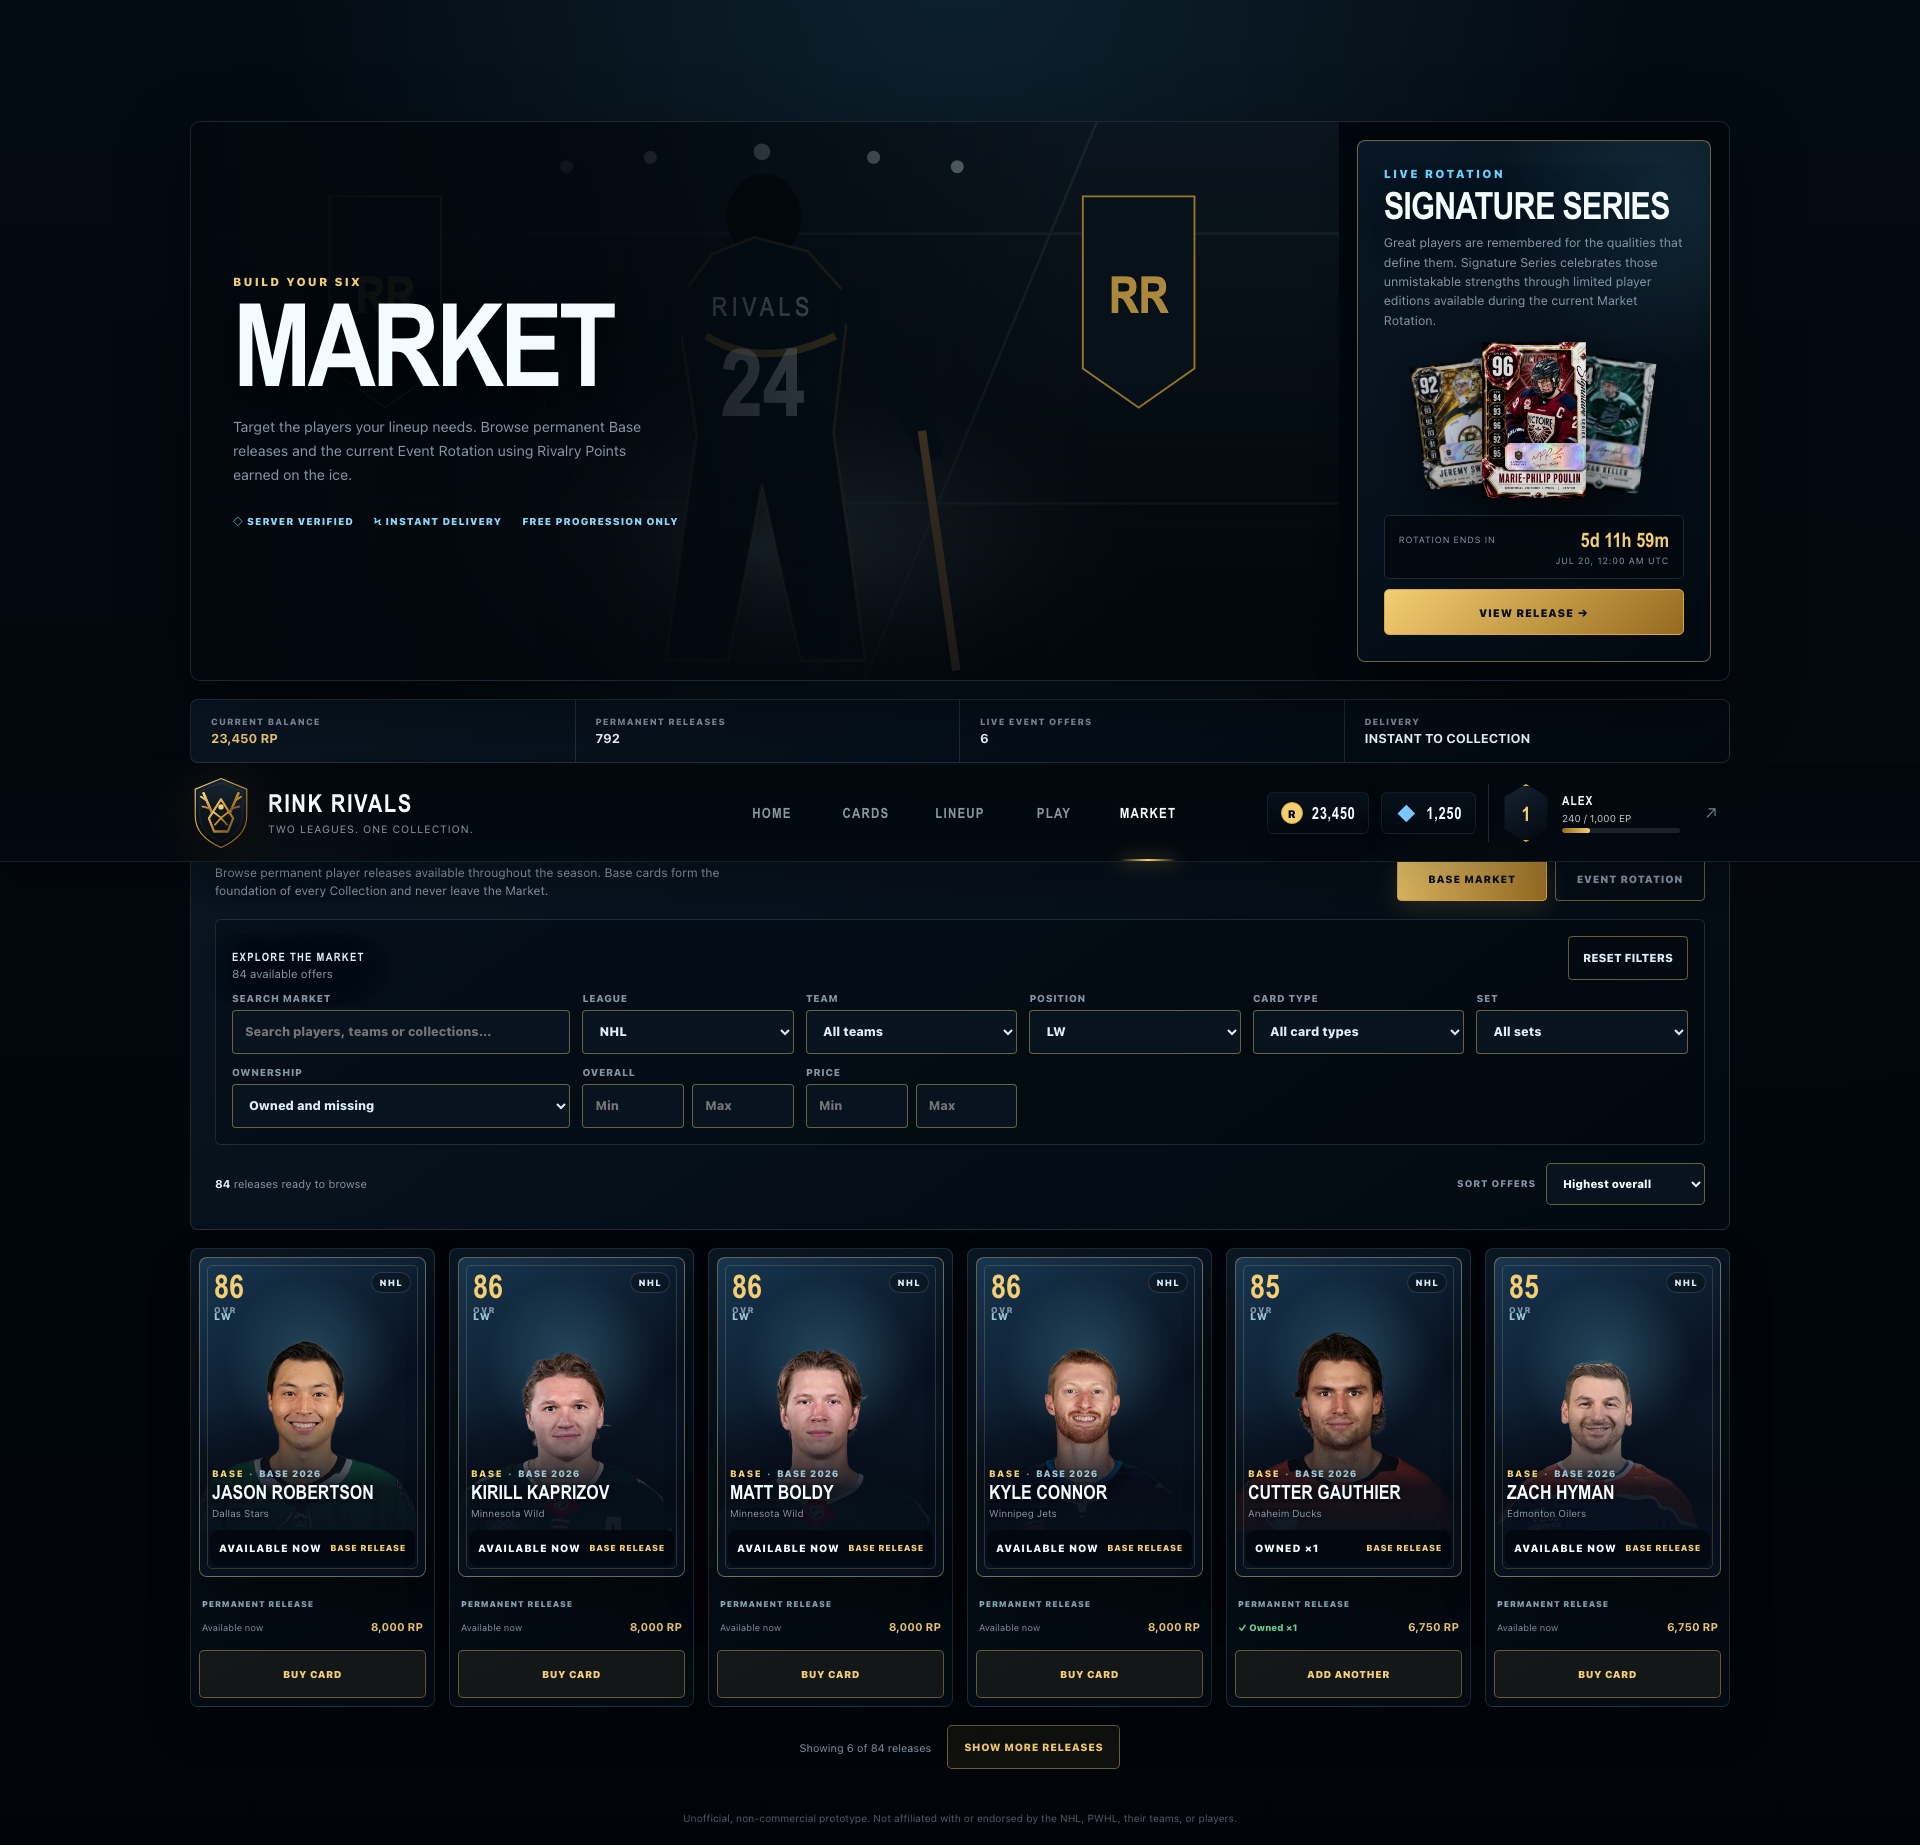
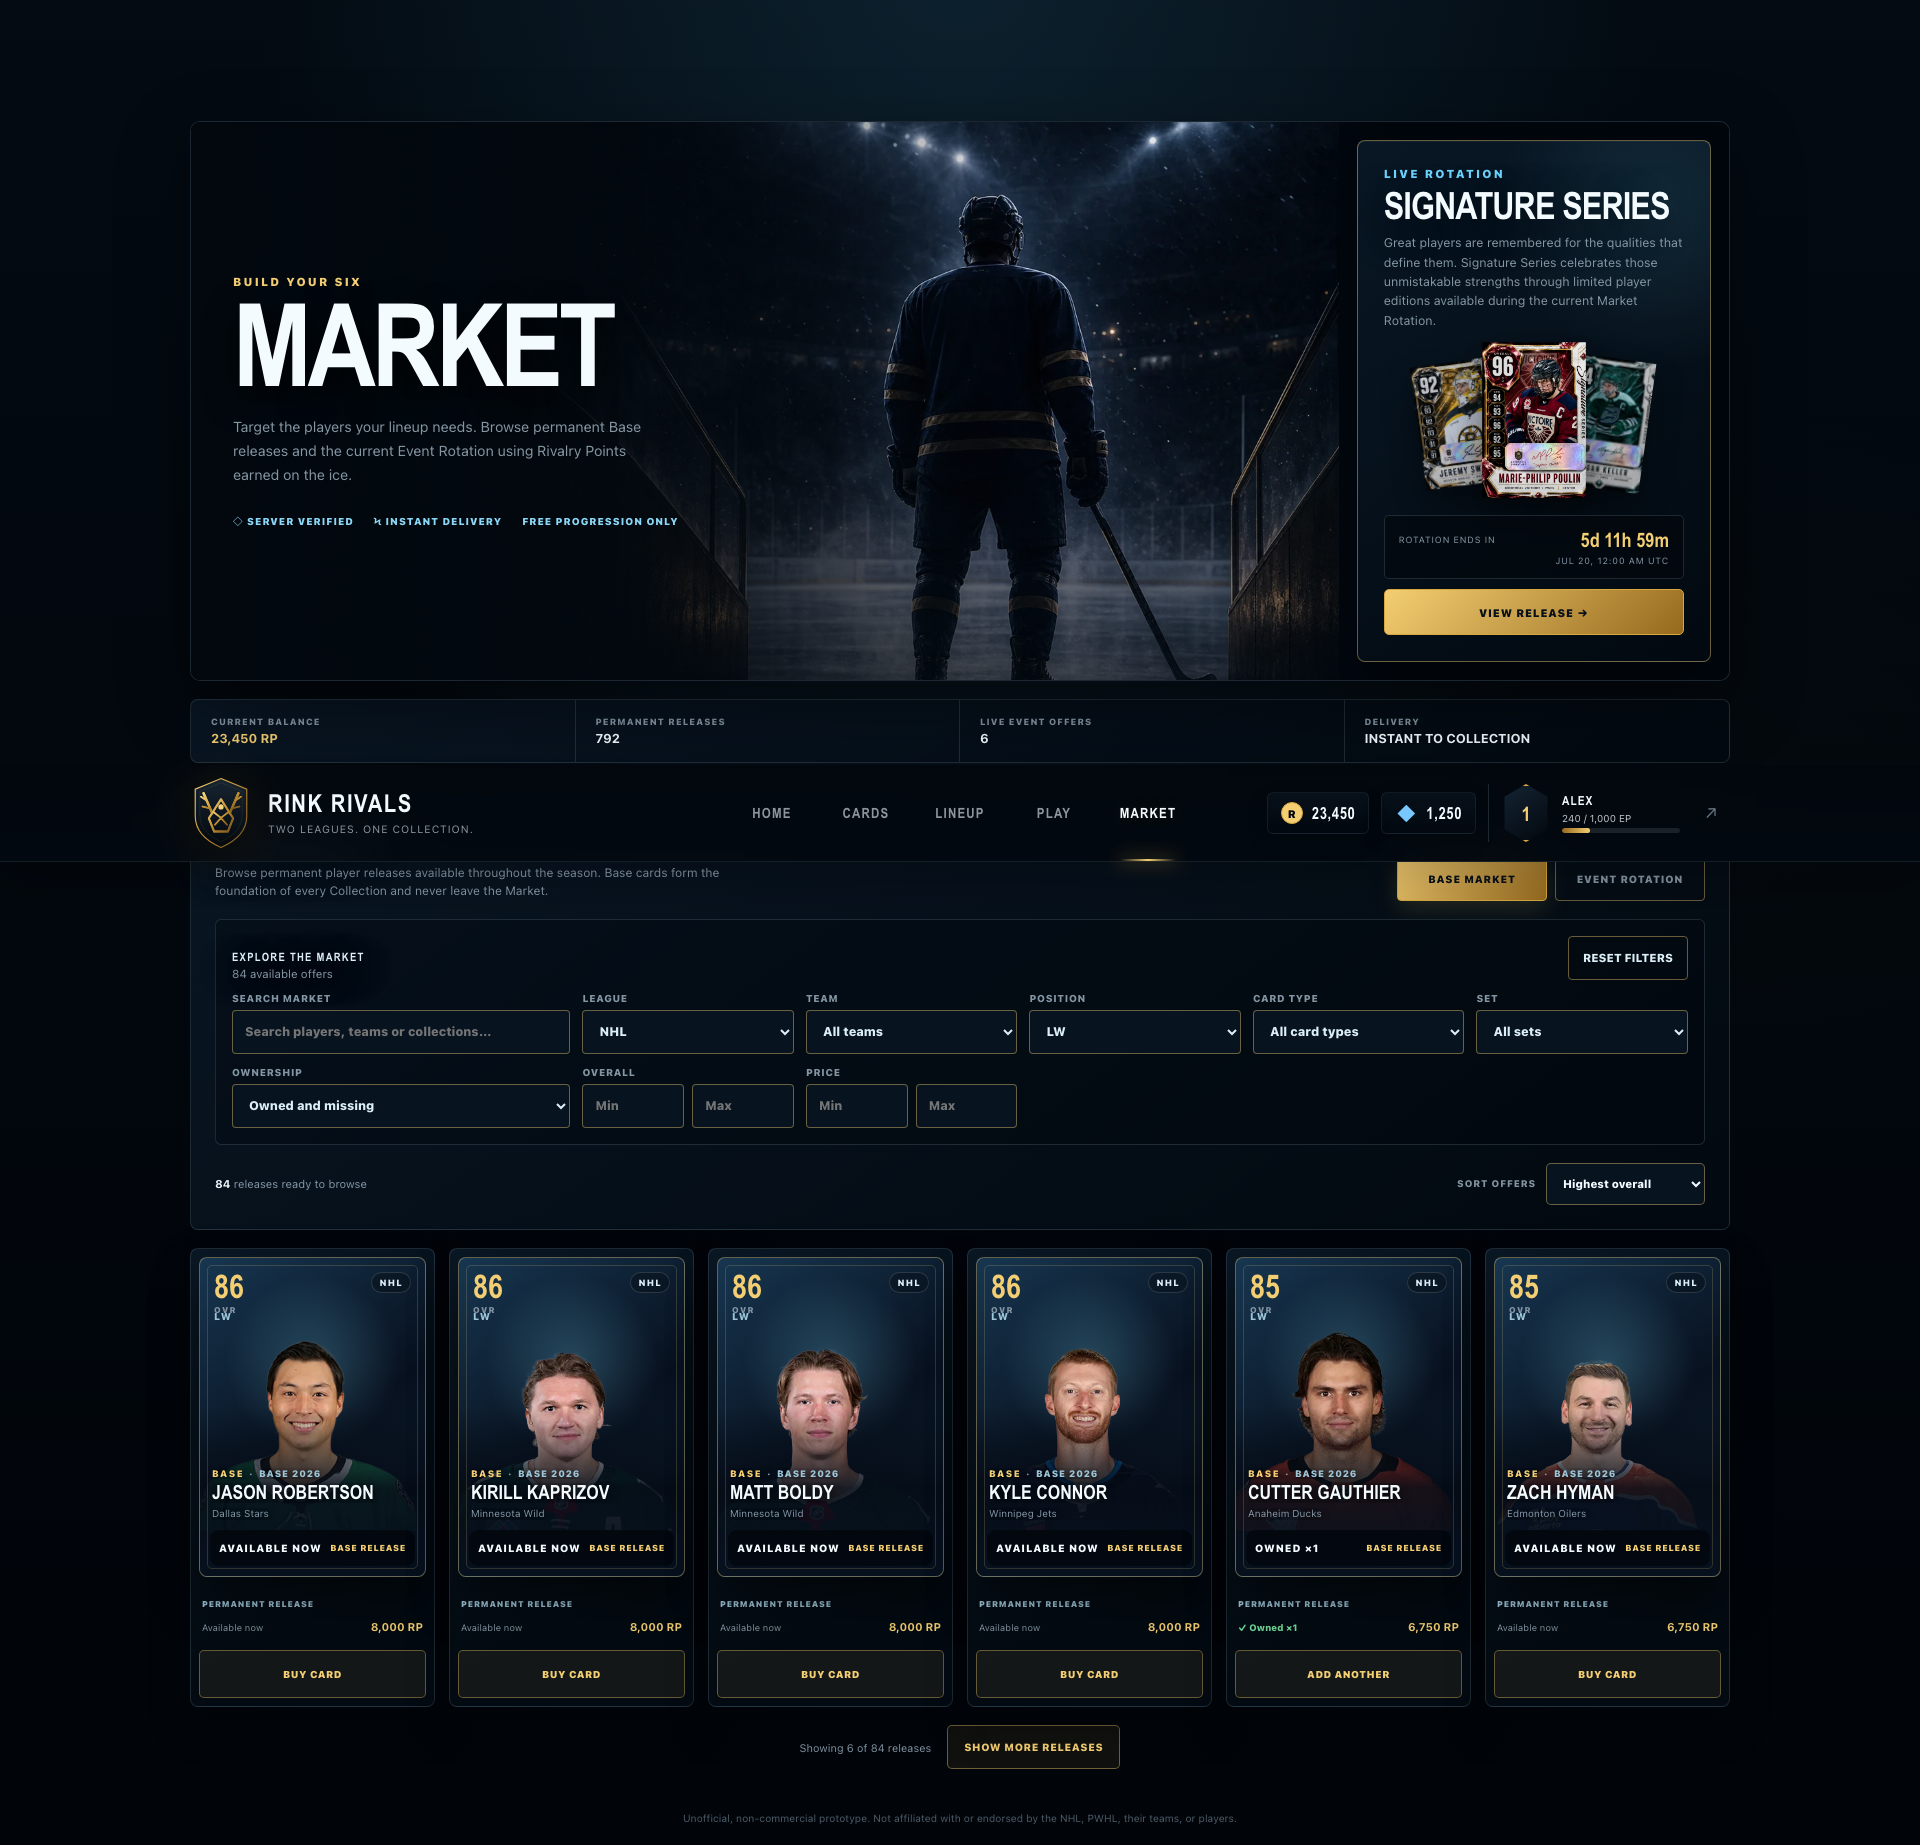
Replace Market hero key art

Changed region(s): [[0.375, 0.0618, 0.6875, 0.3707], [0.375, 0.1854, 0.4688, 0.2472]]

diff --git a/src/features/market/MarketScreen.module.css b/src/features/market/MarketScreen.module.css
@@ -36,9 +36,9 @@
   flex-direction: column;
   padding: 48px 48% 48px 42px;
   background:
-    linear-gradient(90deg, rgb(2 8 14 / 99%) 0%, rgb(2 8 14 / 88%) 35%, rgb(2 8 14 / 12%) 78%),
-    linear-gradient(0deg, rgb(2 8 14 / 68%), transparent 56%),
-    url("/assets/ui/market-tunnel.svg") 52% center / cover no-repeat;
+    linear-gradient(90deg, rgb(2 8 14 / 99%) 0%, rgb(2 8 14 / 83%) 34%, rgb(2 8 14 / 9%) 72%),
+    linear-gradient(0deg, rgb(2 8 14 / 64%), transparent 58%),
+    url("/assets/ui/market-hero-keyart.webp") 54% center / cover no-repeat;
 }
 
 .eyebrow,
@@ -241,7 +241,14 @@
 
 @media (max-width: 640px) {
   .page { gap: 14px; }
-  .marketPageHeader { min-height: 430px; padding: 30px 24px 190px; background-position: 58% center; }
+  .marketPageHeader {
+    min-height: 430px;
+    padding: 30px 24px 190px;
+    background:
+      linear-gradient(90deg, rgb(2 8 14 / 98%) 0%, rgb(2 8 14 / 78%) 48%, rgb(2 8 14 / 12%) 84%),
+      linear-gradient(0deg, rgb(2 8 14 / 78%), transparent 48%),
+      url("/assets/ui/market-hero-keyart.webp") 68% center / cover no-repeat;
+  }
   .title { font-size: clamp(3.8rem, 20vw, 5.4rem); }
   .lede { font-size: .82rem; }
   .marketTrust { gap: 8px 14px; }

diff --git a/docs/ui-redesign/market-review.md b/docs/ui-redesign/market-review.md
@@ -20,7 +20,8 @@
 
 ## Assets
 
-- Keine neue Key-Art erforderlich. Der bestehende lokale Arena-/Tunnel-Hintergrund `public/assets/ui/market-tunnel.svg` wurde responsive neu inszeniert.
+- Der schematische SVG-Platzhalter wurde durch die lokal gespeicherte, textfreie Hockey-Key-Art `public/assets/ui/market-hero-keyart.webp` ersetzt. Sie zeigt einen anonymen Spieler im Arena-Tunnel und besitzt links bewusst ruhige Fläche für die Hero-Texte.
+- Desktop und Mobile verwenden eigene Overlay- und Fokuspositionen, damit der Spieler glaubwürdig bleibt und nicht wie eine übergroße Hintergrundfigur in die Typografie ragt.
 - Featured Release verwendet die echten, bereits validierten Kartenassets der aktuellen Serverrotation.
 - Keine Echtgeld-, Premium-, Bundle- oder Shop-Assets ergänzt.
 
